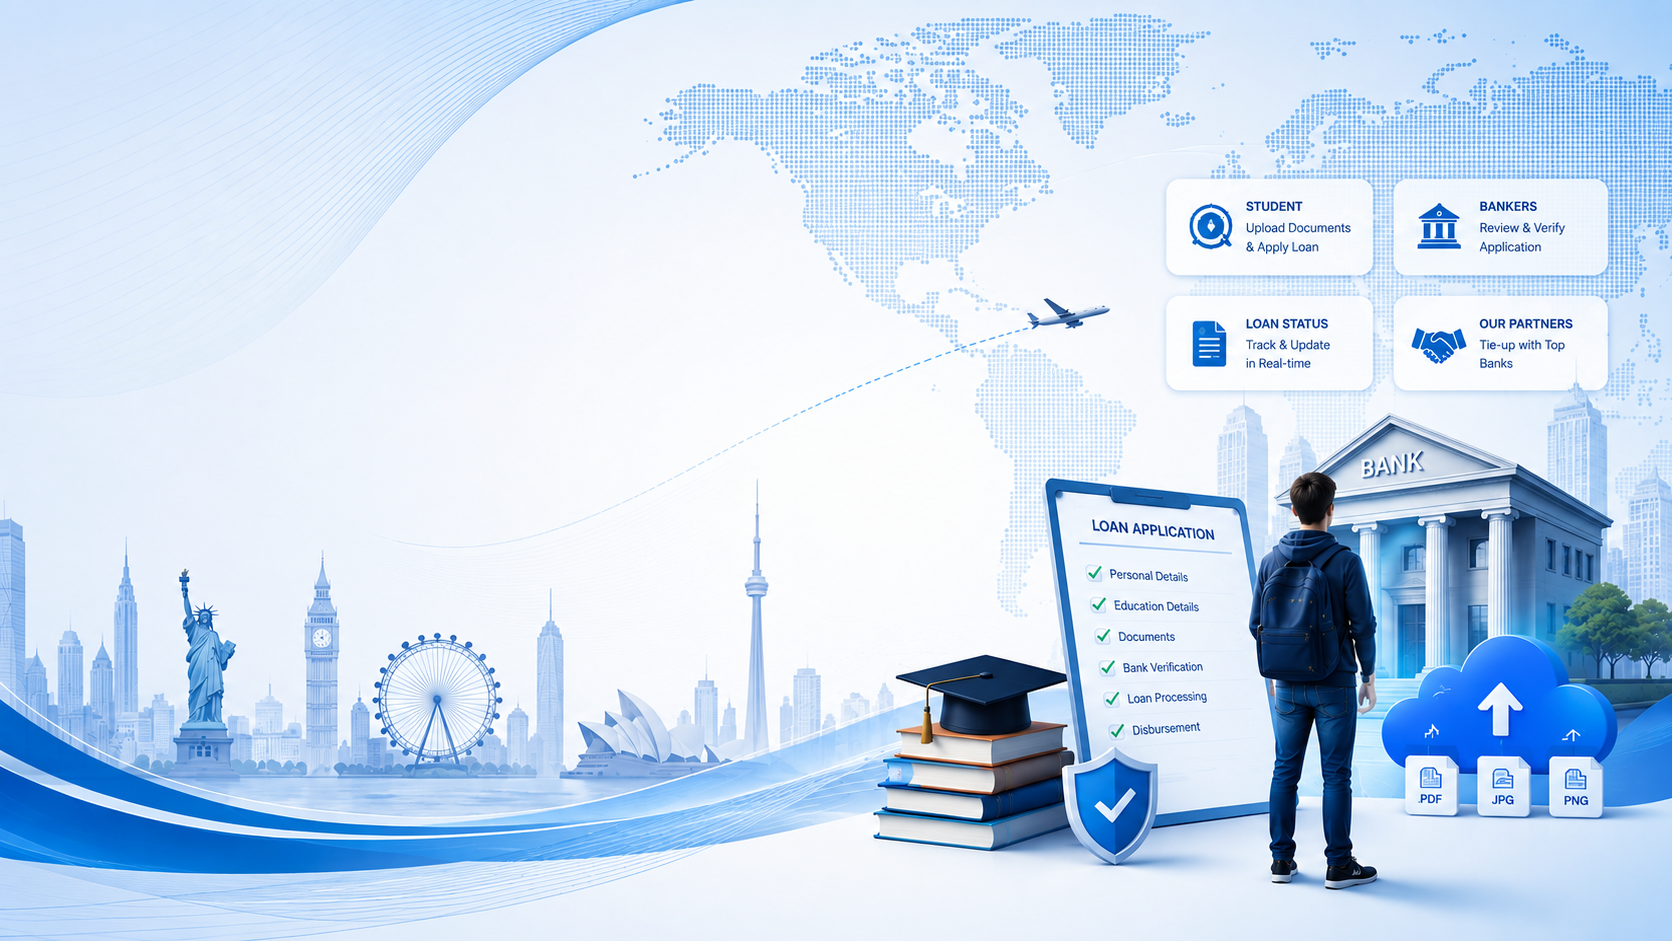
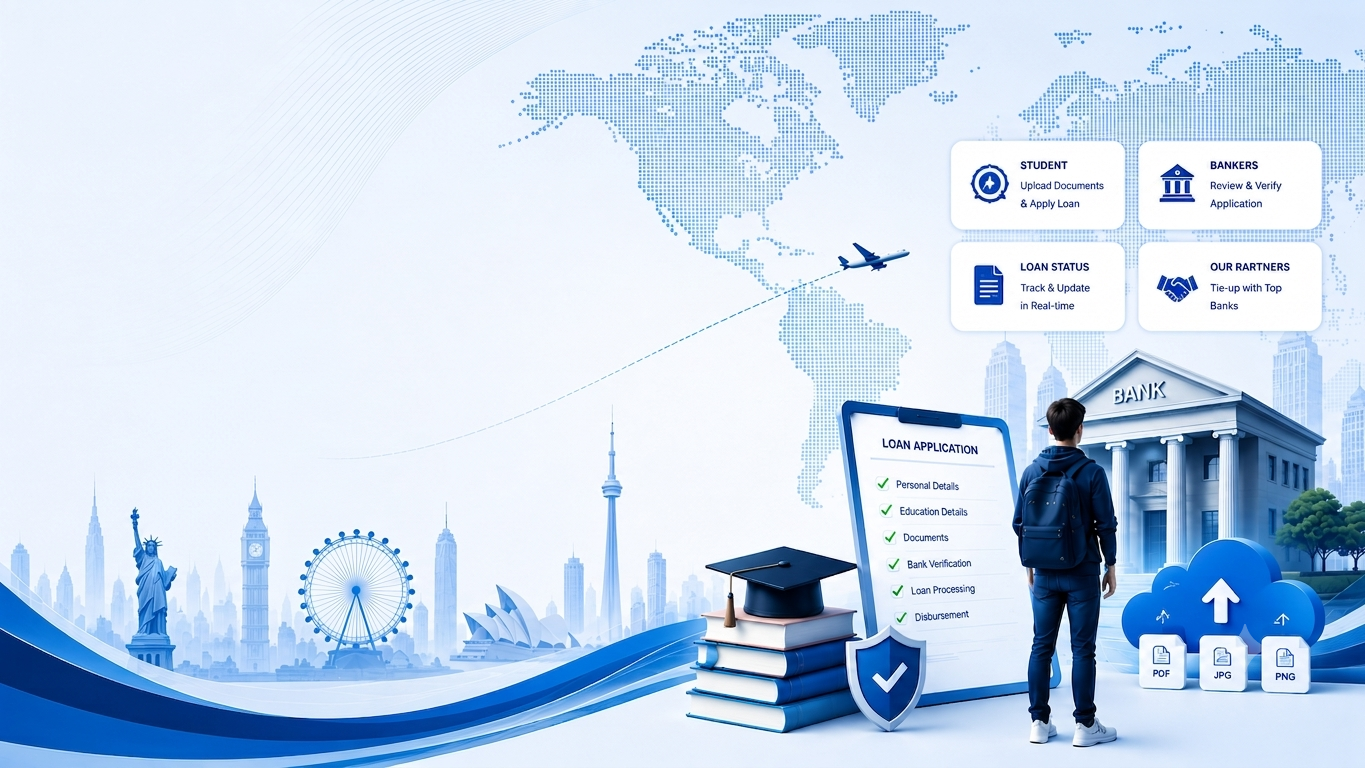
fix: responsive overlap on Admin partner rail, opaque KPI cards, hero bg crop
- Admin: partner-bank side rails only ever activate once the viewport
  actually has empty gutter beside the 1800px-max container (was 1550px,
  which overlapped content on most common desktop resolutions incl. 1920x1080)
- Admin: Document Progress / Loan Status KPI cards are now fully opaque
  instead of letting the page background bleed through at the corners
- Home: hero background no longer crops the illustration's bottom (student/
  bank/upload icons) or leaves a blank gutter on any viewport — cover +
  bottom-right anchor, cropping only ever the empty sky/map area
- Swap in the updated hero/site background art

diff --git a/src/pages/Admin/Admin.css b/src/pages/Admin/Admin.css
@@ -282,7 +282,10 @@
   padding: 14px 16px 12px;
   border-radius: 14px;
   border: 1px solid var(--border-dim);
-  background: var(--bg-surface);
+  /* Solid white, not the translucent --bg-surface used elsewhere — these
+     cards sit directly over the page's background image/pattern, and any
+     transparency let it bleed through and show as grime under the tint. */
+  background: #ffffff;
   backdrop-filter: blur(16px);
   -webkit-backdrop-filter: blur(16px);
   cursor: pointer;
@@ -341,7 +344,7 @@
 
 /* â”€â”€ Blue â€” Total Students â”€â”€ */
 .kpi-blue {
-  background: linear-gradient(145deg, rgba(26,110,181,0.10) 0%, var(--bg-surface) 55%);
+  background: linear-gradient(145deg, rgba(26,110,181,0.10) 0%, transparent 55%), #ffffff;
 }
 .kpi-blue::before    { background: var(--blue); }
 .kpi-blue .kpi-icon  { color: var(--blue); }
@@ -351,7 +354,7 @@
 
 /* â”€â”€ Green â€” Completed â”€â”€ */
 .kpi-green {
-  background: linear-gradient(145deg, rgba(34,211,174,0.10) 0%, var(--bg-surface) 55%);
+  background: linear-gradient(145deg, rgba(34,211,174,0.10) 0%, transparent 55%), #ffffff;
 }
 .kpi-green::before    { background: var(--green); }
 .kpi-green .kpi-icon  { color: var(--green); }
@@ -361,7 +364,7 @@
 
 /* â”€â”€ Amber â€” In Progress â”€â”€ */
 .kpi-amber {
-  background: linear-gradient(145deg, rgba(217,119,6,0.10) 0%, var(--bg-surface) 55%);
+  background: linear-gradient(145deg, rgba(217,119,6,0.10) 0%, transparent 55%), #ffffff;
 }
 .kpi-amber::before    { background: var(--amber); }
 .kpi-amber .kpi-icon  { color: var(--amber); }
@@ -371,7 +374,7 @@
 
 /* â”€â”€ Red â€” Not Started â”€â”€ */
 .kpi-red {
-  background: linear-gradient(145deg, rgba(220,38,38,0.08) 0%, var(--bg-surface) 55%);
+  background: linear-gradient(145deg, rgba(220,38,38,0.08) 0%, transparent 55%), #ffffff;
 }
 .kpi-red::before    { background: var(--red); }
 .kpi-red .kpi-icon  { color: var(--red); }
@@ -381,7 +384,7 @@
 
 /* â”€â”€ Slate â€” Pending â”€â”€ */
 .kpi-slate {
-  background: linear-gradient(145deg, rgba(148,163,184,0.08) 0%, var(--bg-surface) 55%);
+  background: linear-gradient(145deg, rgba(148,163,184,0.08) 0%, transparent 55%), #ffffff;
 }
 .kpi-slate::before    { background: #94a3b8; }
 .kpi-slate .kpi-dot   { background: #94a3b8; }
@@ -391,7 +394,7 @@
 
 /* â”€â”€ Orange â€” In Process â”€â”€ */
 .kpi-orange {
-  background: linear-gradient(145deg, rgba(234,88,12,0.09) 0%, var(--bg-surface) 55%);
+  background: linear-gradient(145deg, rgba(234,88,12,0.09) 0%, transparent 55%), #ffffff;
 }
 .kpi-orange::before    { background: #ea580c; }
 .kpi-orange .kpi-dot   { background: #ea580c; }
@@ -401,7 +404,7 @@
 
 /* â”€â”€ Teal â€” Sanctioned â”€â”€ */
 .kpi-teal {
-  background: linear-gradient(145deg, rgba(13,148,136,0.09) 0%, var(--bg-surface) 55%);
+  background: linear-gradient(145deg, rgba(13,148,136,0.09) 0%, transparent 55%), #ffffff;
 }
 .kpi-teal::before    { background: #0d9488; }
 .kpi-teal .kpi-dot   { background: #0d9488; }
@@ -411,7 +414,7 @@
 
 /* â”€â”€ Rose â€” Rejected â”€â”€ */
 .kpi-rose {
-  background: linear-gradient(145deg, rgba(225,29,72,0.08) 0%, var(--bg-surface) 55%);
+  background: linear-gradient(145deg, rgba(225,29,72,0.08) 0%, transparent 55%), #ffffff;
 }
 .kpi-rose::before    { background: #e11d48; }
 .kpi-rose .kpi-dot   { background: #e11d48; }
@@ -430,7 +433,7 @@
 
 /* -- Emerald -- Disbursed -- */
 .kpi-emerald {
-  background: linear-gradient(145deg, rgba(5,150,105,0.10) 0%, var(--bg-surface) 55%);
+  background: linear-gradient(145deg, rgba(5,150,105,0.10) 0%, transparent 55%), #ffffff;
 }
 .kpi-emerald::before    { background: #059669; }
 .kpi-emerald .kpi-dot   { background: #059669; }
@@ -534,9 +537,15 @@
 }
 
 /* ── Vertical side rails (very wide screens only) ────────────────
-   Enabled only once the viewport is wide enough that the 1200px-max
-   centered container leaves a genuinely empty gutter beside it —
-   otherwise a rail would sit awkwardly close to (or over) real content. */
+   Enabled only once the viewport is wide enough that the 1800px-max
+   centered .admin-container (see above) leaves a genuinely empty gutter
+   beside it — otherwise the rail sits on top of real content instead of
+   beside it. Below that width the container fills the entire viewport
+   (max-width just caps it, it doesn't reserve side space), so there is
+   NO gutter at all until viewport > 1800px. The rail itself needs
+   126px of clearance (18px offset + 108px width) plus breathing room,
+   so each 1800px-wide gutter half must be >= ~166px — i.e. viewport
+   >= 1800 + 2*166 = 2132px. The 2150px breakpoint below matches that. */
 .partner-rail {
   position: fixed;
   top: 84px;
@@ -580,7 +589,7 @@
   .partner-rail-track { animation: none !important; }
 }
 
-@media (min-width: 1550px) {
+@media (min-width: 2150px) {
   .partner-banks-strip-inline { display: none; }
   .partner-rail { display: block; }
 }

diff --git a/src/pages/Home/Home.css b/src/pages/Home/Home.css
@@ -15,8 +15,21 @@
      margin: 0 auto, padding: 0 24px) so the headline lines up with the brand
      logo above it instead of drifting apart on wide/ultra-wide screens. */
   padding-left: calc(max(0px, (100vw - 1800px) / 2) + 24px);
+  /* Pale near-white fallback matching the hero art's own background, in
+     case the image is ever slow to load or fails. */
+  background-color: #eef4fb;
+  /* `contain` (tried previously) never crops or upscales the art, but on
+     any viewport wider/narrower than its own ~16:9 it leaves a visible
+     empty gutter — which showed up as a plain white band on the side
+     opposite the image. `cover` always fills the box completely (no
+     gutter, ever), at the cost of cropping whichever edge has to give.
+     Anchoring it bottom-right makes sure that cropping only ever eats
+     into the top (empty sky/world-map — nothing lost) and, on narrow
+     screens, the left (skyline silhouettes — decorative), while the
+     bottom-right illustration (student, bank, upload icons) — the part
+     that actually matters — is never cropped or covered by anything. */
   background-size: cover;
-  background-position: top center;
+  background-position: bottom right;
   background-repeat: no-repeat;
 }
 

diff --git a/src/index.css b/src/index.css
@@ -37,7 +37,7 @@ html {
   background-color: #eaedff;
   background-image: url("./assets/bg.png");
   background-size: cover;
-  background-position: center top;
+  background-position: center;
   background-repeat: no-repeat;
   background-attachment: fixed;
 }
